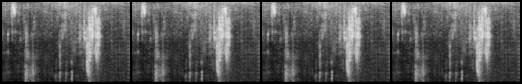
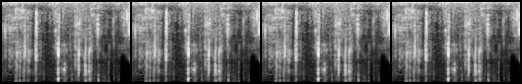
Update

diff --git a/src/cGAN.py b/src/cGAN.py
@@ -39,8 +39,12 @@ class Generator(nn.Module):
         self.model = nn.Sequential(
             # Input: LATENT_DIM (noise) + W2V_DIM (condition) -> [batch, 400, 1, 1]
             nn.ConvTranspose2d(
-                LATENT_DIM + W2V_DIM, 512, kernel_size=(5, 4), stride=1, padding=0
+                LATENT_DIM + W2V_DIM, 1024, kernel_size=(5, 4), stride=1, padding=0
             ),
+            nn.BatchNorm2d(1024),
+            nn.ReLU(True),
+            nn.Upsample(scale_factor=2, mode="nearest"),
+            nn.Conv2d(1024, 512, kernel_size=3, stride=1, padding=1),
             nn.BatchNorm2d(512),
             nn.ReLU(True),
             # State: [batch, 512, 5, 4]
@@ -60,7 +64,7 @@ class Generator(nn.Module):
             nn.ReLU(True),
             # State: [batch, 64, 40, 32]
             nn.ConvTranspose2d(
-                64, 1, kernel_size=(4, 4), stride=(2, 4), padding=(1, 0)
+                64, 1, kernel_size=(4, 4), stride=(1, 2), padding=(1, 0)
             ),
             nn.Tanh(),
             # Output: [batch, 1, 80, 128]
@@ -79,9 +83,13 @@ class Discriminator(nn.Module):
         super(Discriminator, self).__init__()
         self.spec_path = nn.Sequential(
             nn.Conv2d(1, 64, 4, 2, 1),
+            nn.BatchNorm2d(64),
             nn.LeakyReLU(0.2, inplace=True),
             nn.Conv2d(64, 128, 4, 2, 1),
             nn.BatchNorm2d(128),
+            nn.LeakyReLU(0.2, inplace=True),
+            nn.Conv2d(128, 256, 3, 1, 1),
+            nn.BatchNorm2d(256),
             nn.LeakyReLU(0.2, inplace=True),
         )
         self.w2v_path = nn.Sequential(
@@ -89,7 +97,7 @@ class Discriminator(nn.Module):
             nn.LeakyReLU(0.2, inplace=True),
         )
         self.final_path = nn.Sequential(
-            nn.Conv2d(256, 512, 4, 2, 1),
+            nn.Conv2d(384, 512, 4, 2, 1),
             nn.BatchNorm2d(512),
             nn.LeakyReLU(0.2, inplace=True),
             nn.Conv2d(512, 1, kernel_size=(10, 16), stride=1, padding=0),

diff --git a/src/learn.py b/src/learn.py
@@ -30,10 +30,10 @@ def setup():
     discriminator = Discriminator().to(device)
     criterion = nn.BCELoss()
     optimizer_g = torch.optim.Adam(
-        generator.parameters(), lr=0.00002, betas=(0.8, 0.999)
+        generator.parameters(), lr=0.0001, betas=(0.7, 0.999)
     )
     optimizer_d = torch.optim.Adam(
-        discriminator.parameters(), lr=0.00001, betas=(0.8, 0.999)
+        discriminator.parameters(), lr=0.00001, betas=(0.7, 0.999)
     )
 
     return (
@@ -110,7 +110,8 @@ def run(
     else:
         print("No checkpoint found. Starting training from scratch.")
 
-    num_epochs = 5000
+    # num_epochs = 5000
+    num_epochs = 1
     d_loss_list = []
     g_loss_list = []
 
